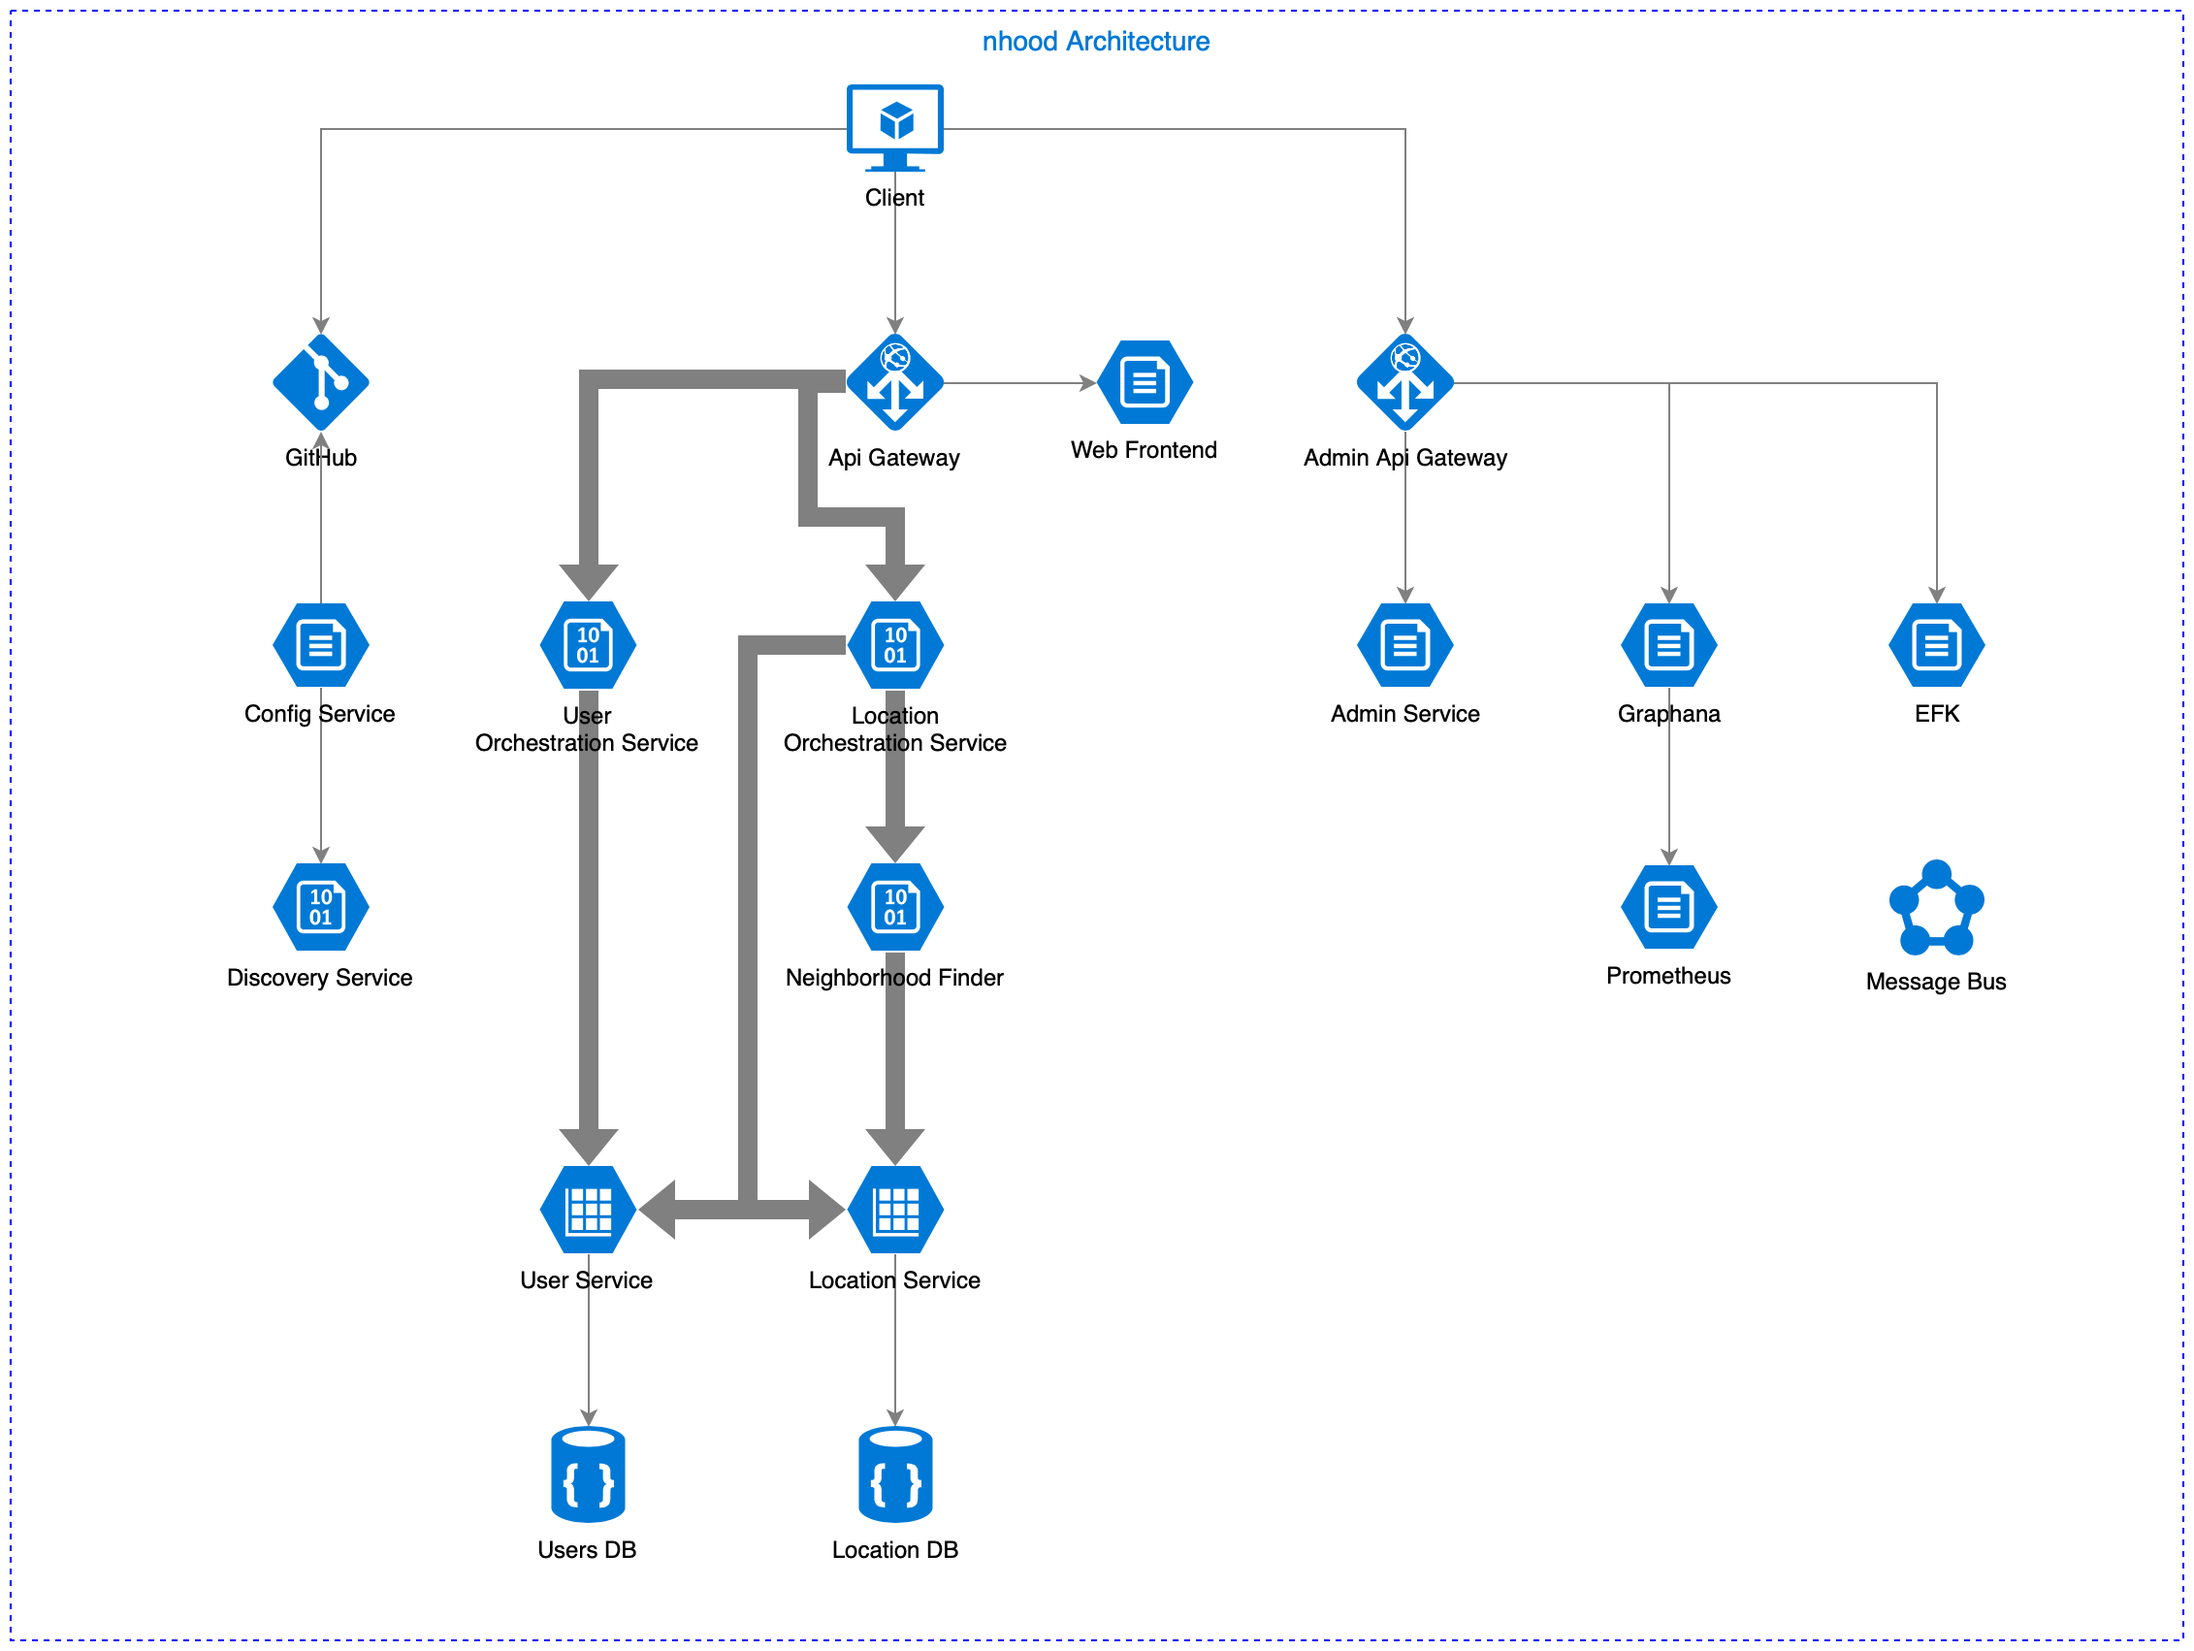
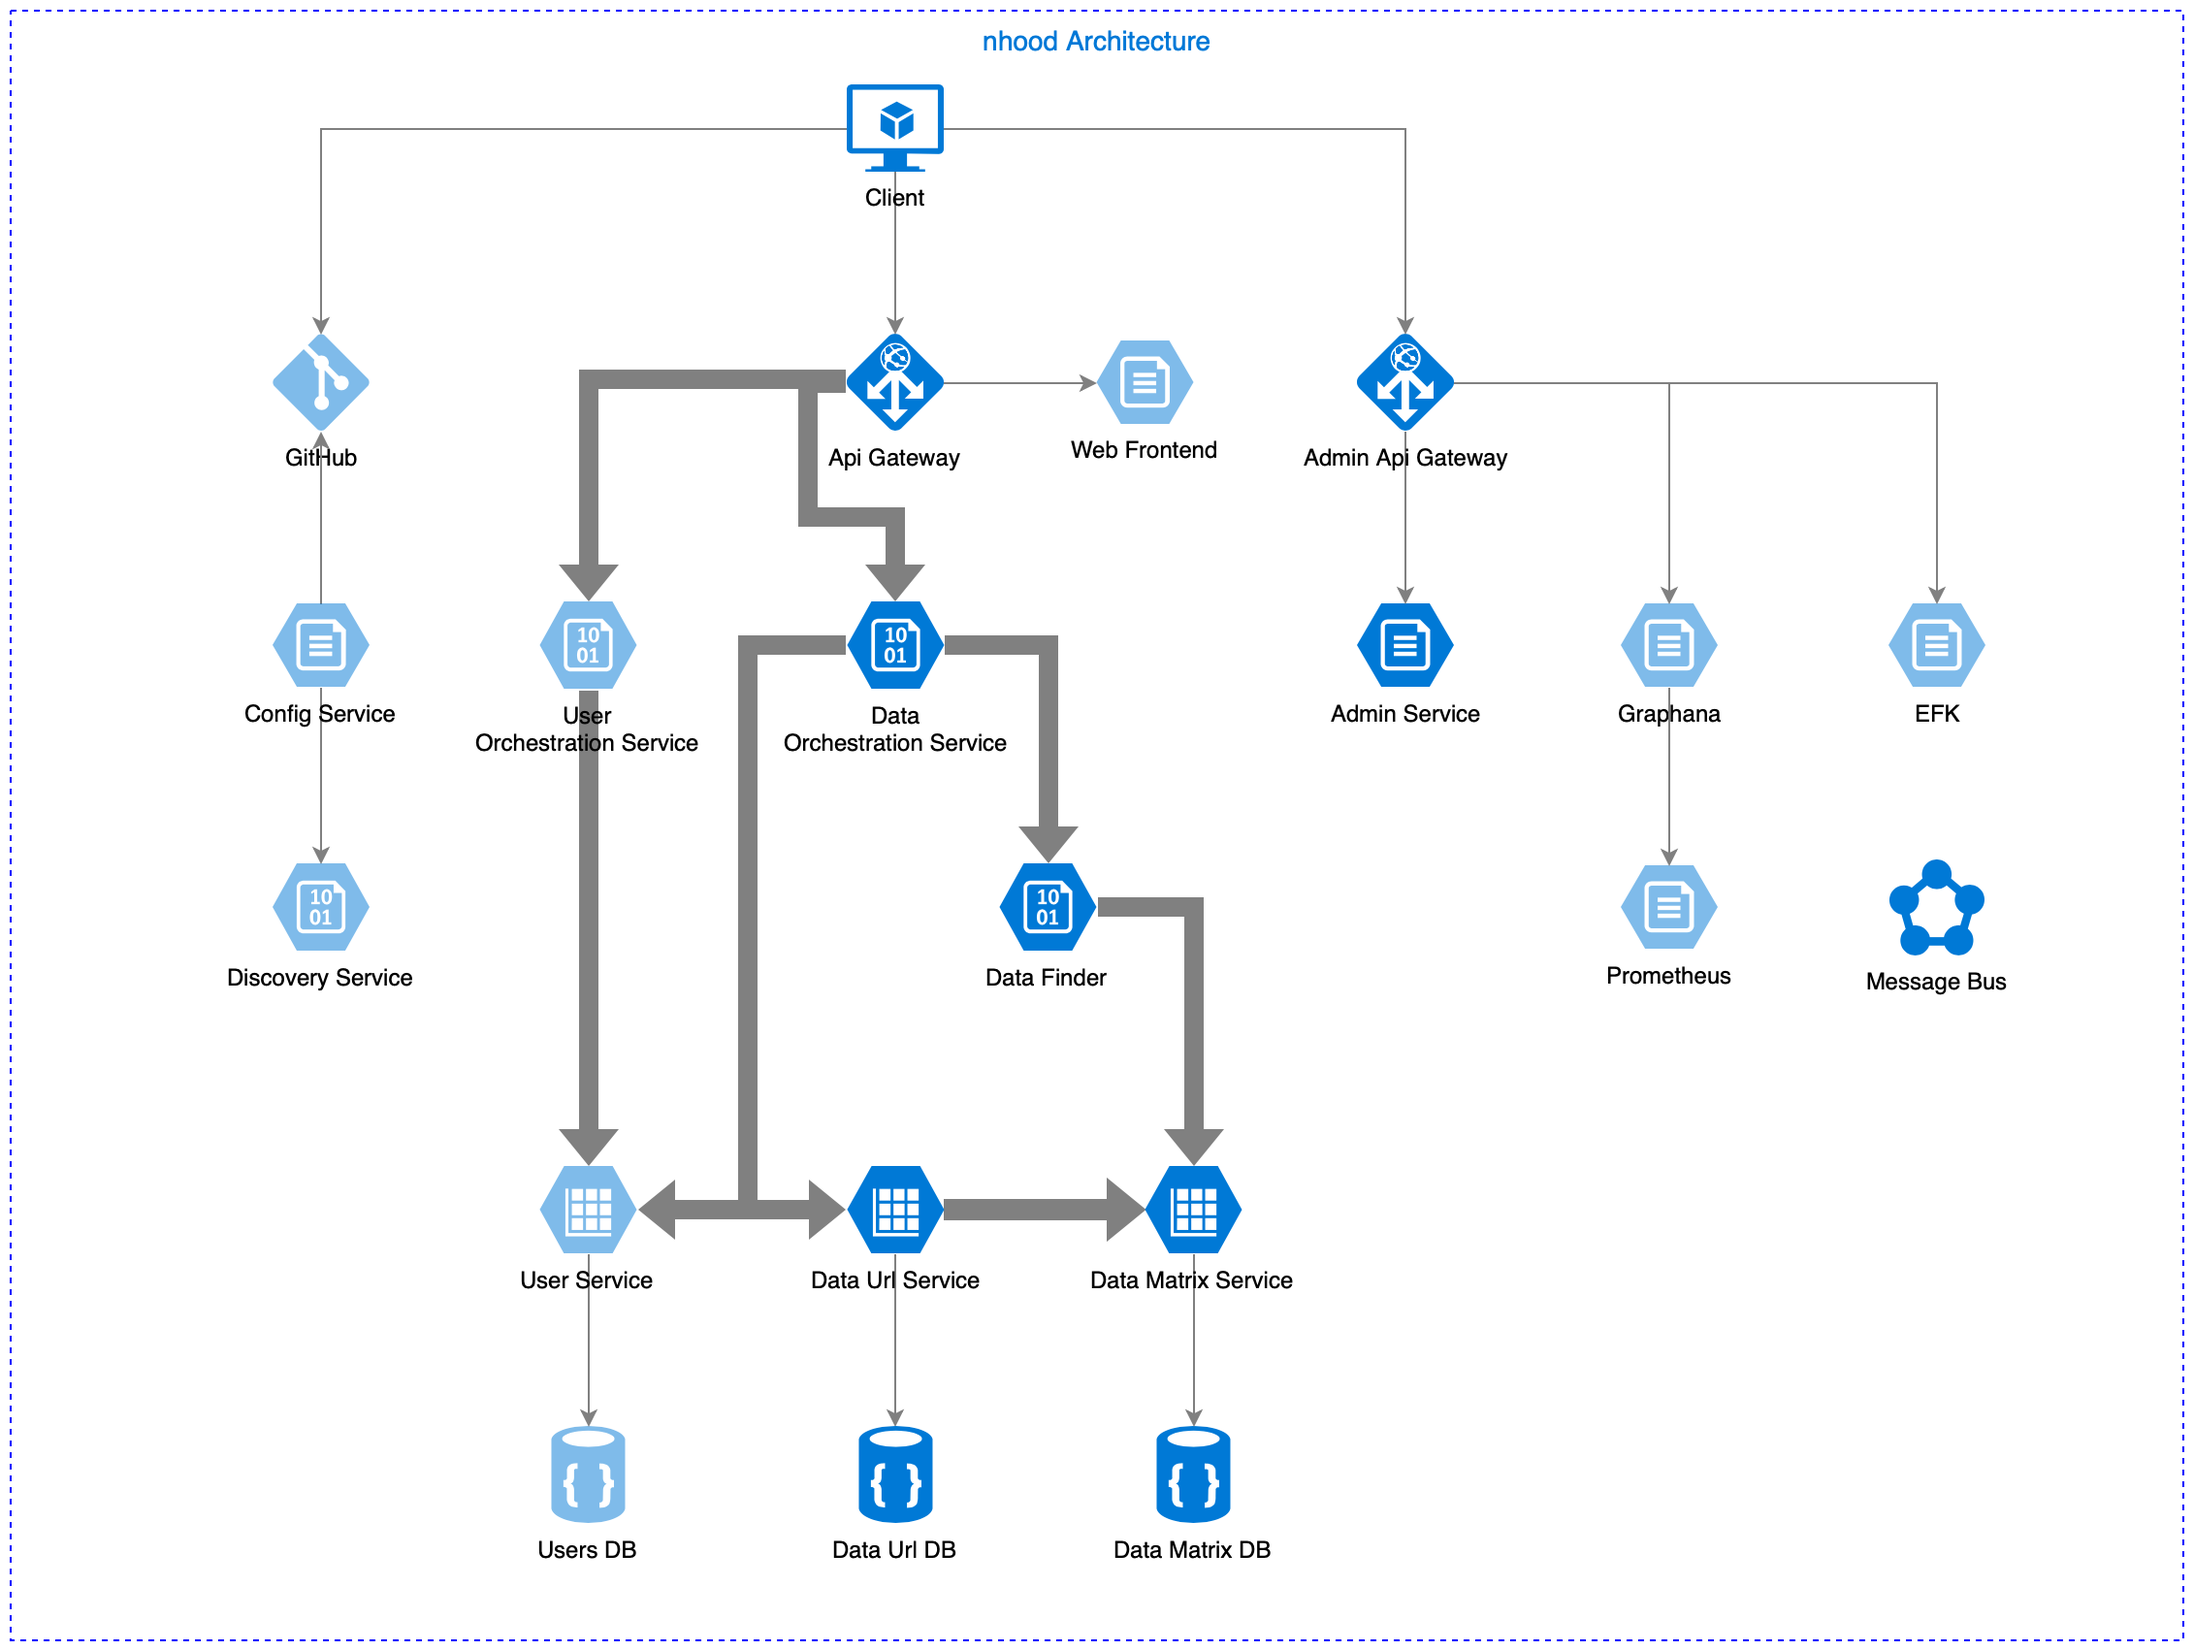
Update architecture and docs

diff --git a/README.md b/README.md
@@ -2,7 +2,13 @@
 
 ## Problem
 
-`nhood` (for neighborhood) is an engine that maintains a collection of location pointers all around the world and provides fast resolution of latest and closest neighbors to the given input pointer.
+`nhood` (for neighborhood) is a data search engine based on a shortest geometrical distances between multidimensional metadata vectors. Engine maintains an universe of data with n-dimensional vectors of metadata as data description. On search the geometrically nearest objects are resolved and returned. 
+
+## Use-cases
+
+1. A resolution of nearest geographical locations around the user.
+
+1. A resolution of content relevant to user preferences.
 
 ## Goal
 
@@ -11,40 +17,37 @@ The engine implementation if focused on:
 - high performance
 - resilience
 - reactiveness
+- cloud-nativeness
 
 ## Architecture
 
-System architecture is based on containerized microservices principles. All of the components should be considered as a separate services that may consist of single or multiple instances of application container. Inter-service communication is based on an event bus. Service discovery, load balancing, container life cycle management is supported by Kubernetes. 
+System architecture is based on containerized microservices principles. All of the components should be considered as a separate services that may consist of single or multiple instances of application container. Inter-service communication is based on a messaging/event bus. Service discovery, load balancing, container life cycle management is supported by container orchestration technology. 
 
 ![alt architecture](./images/nhood-architecture.png)
 
-## Services
+## Key Services
 
 ### Data layer services
 
-- `Location Service`: 
+- `Data URL Service`: 
 
-    Simple CRUD data abstraction service for location entities
+    Simple CRUD data abstraction service for data url entities.
     
     Repository: https://github.com/nhood-org/nhood-location-svc
 
-- `User Service`: 
+- `Data Matrix Service`: 
 
-    Simple CRUD data abstraction service for user entities
+    Service maintaining a model of n-dimensional data grid, grouped into small and easy-to-compute data grid chunks, optimized for retrieval of data by vector elements.
 
 ### Engine services
 
-- `User Orchestrations Service`: 
+- `Data Orchestrations Service`: 
 
-    Service for orchestration of user management
+    Service for orchestration of data registration and data resolution.
 
-- `Location Orchestrations Service`: 
+- `Data Finder`: 
 
-    Service for orchestration of location registration and location resolution
-
-- `Neighborhood Finder`: 
-
-    Engine service resolving nearest neighbor locations
+    Engine service resolving nearest data.
 
 ### Frontal services
 
@@ -52,11 +55,11 @@ System architecture is based on containerized microservices principles. All of t
 
     Frontal gateway for web application
 
+    Repository: https://github.com/nhood-org/nhoog-api-gateway
+
 - `Admin Api Gateway`: 
 
     Frontal gateway exposing auxiliary UI consoles
-
-    Repository: https://github.com/nhood-org/nhoog-api-gateway
 
 - `Web Frontend`: 
 
@@ -84,7 +87,6 @@ System architecture is based on containerized microservices principles. All of t
 
 Other Repositories:
 
-- Jenkins: https://github.com/nhood-org/nhood-jenkins
 - Parent BOM: https://github.com/nhood-org/nhood-parent-bom
 - Parent Service BOM: https://github.com/nhood-org/nhood-parent-service-bom
 
@@ -93,10 +95,10 @@ Other Repositories:
 Core parts of implementation are based on:
 
 - Spring Boot 2.x stack
-- Spring Framework 5 cloud and reactive technologies
-- Couchbase
-- Docker, Kubernetes
-- Jenkins, Nexus
+- Spring Framework 5, Spring Cloud, Project React, RSocket
+- Couchbase, R2DBC
+- Docker, Docker Compose, Docker Swarm/Kubernetes
+- JUnit5, Spock
 
 ## Road map
 

diff --git a/ROADMAP.md b/ROADMAP.md
@@ -2,50 +2,50 @@
 
 ## Phase 1: 
 
-Implementation of Location Service
+Implementation of Data Url Service
 
-- [x] NH001: Implement LocationEntry data model
-- [x] NH002: Implement basic LocationEntry CRUD functionalities with REST controller
-- [ ] NH003: Setup CI/CD for Location Service
+- [x] NH001: Implement DataUrl data model
+- [x] NH002: Implement basic DataUrl CRUD functionalities with REST controller
+- [ ] NH003: Setup CI/CD for Data Url Service
 
 ## Phase 2: 
 
-Setup Location DB
+Setup Data Url DB
 
-- [ ] NH004: Setup Location DB
-- [ ] NH005: Setup CI/CD for Location DB
+- [ ] NH004: Setup Data Url DB
+- [ ] NH005: Setup CI/CD for Data Url DB
 
 ## Phase 2: 
 
 Message Bus
 
-- [ ] NH006: Implement event handling for LocationEntry creation
+- [ ] NH006: Implement event handling for DataUrl creation
 - [ ] NH007: Setup message bus
-- [ ] NH008: Integrate Location Service with message bus
+- [ ] NH008: Integrate Data Url Service with message bus
 
 ## Phase 3:
 
-Location Orchestration Service and location registration
+Data Orchestration Service and data registration
 
-- [ ] NH009: Implement location registration within Location Orchestration Service
-- [ ] NH010: Setup CI/CD for Location Orchestration Service
+- [ ] NH009: Implement data registration within Data Orchestration Service
+- [ ] NH010: Setup CI/CD for Data Orchestration Service
 
 ## Phase 4:
 
 Api Gateway
 
 - [ ] NH011: Create Api Gateway service
-- [ ] NH012: Expose location registration endpoint
-- [ ] NH013: Expose location CRUD endpoints
+- [ ] NH012: Expose data registration endpoint
+- [ ] NH013: Expose data url CRUD endpoints
 - [ ] NH014: Setup CI/CD for Api Gateway service
 
 ## Phase 5
 
-Neighborhood Finder
+Data Finder
 
-- NH015: Implement trivial resolution logic
-- NH016: Setup CI/CD for Neighborhood Finder
-- NH017: Integrate Location Orchestration Service with Neighborhood Finder
+- NH015: Implement trivial resolution logic without Data Matrix Service being used
+- NH016: Setup CI/CD for Data Finder
+- NH017: Integrate Data Orchestration Service with Data Finder
 
 ## Phase 6
 
